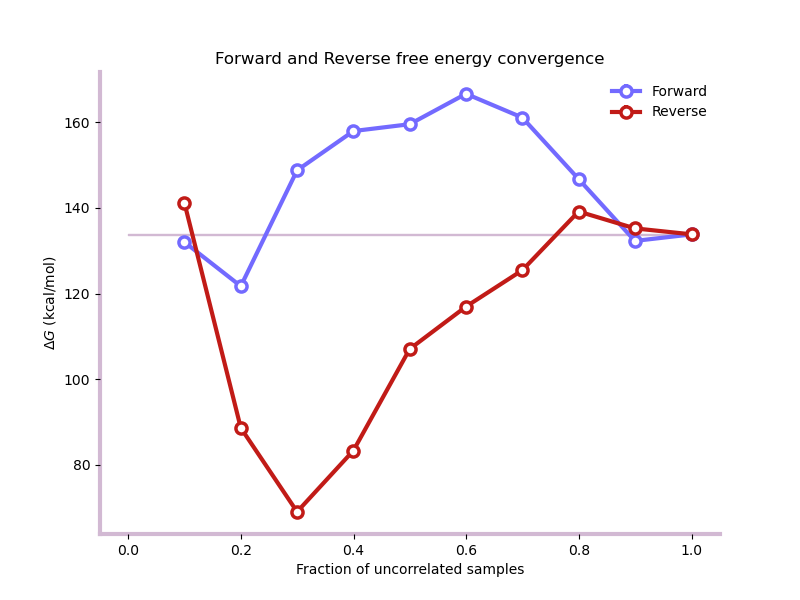
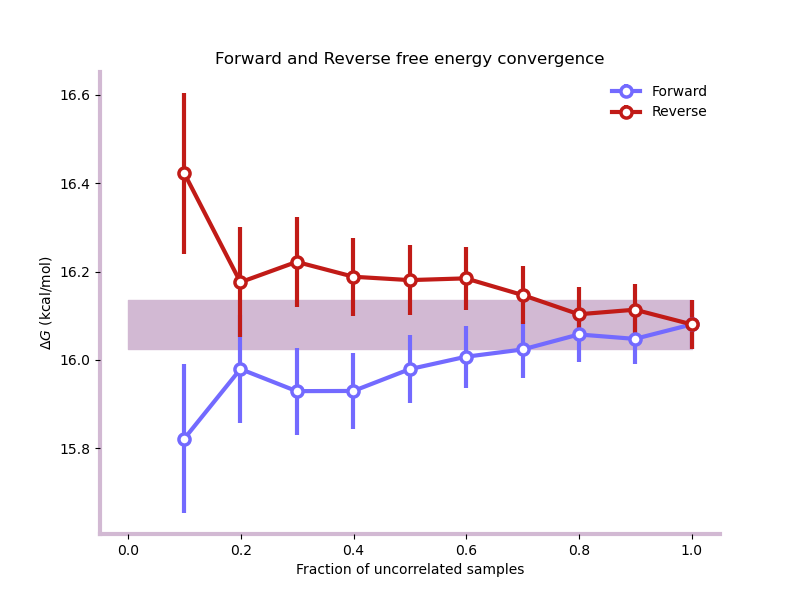
adress review comments

diff --git a/docs/guide/results/simulation_health.rst b/docs/guide/results/simulation_health.rst
@@ -3,21 +3,27 @@
 Assessing simulation health
 ===========================
 
-A plausible free energy estimate does not necessarily mean that a simulation
-has sampled adequately. Poor overlap between alchemical states, slow replica
-mixing, unconverged estimates or structural changes can all make a
-result unreliable, without raising an error.
+A free energy calculation can complete without errors even when the
+result is unreliable. Poor overlap between alchemical states, slow replica
+mixing, unconverged estimates or unexpected structural changes can
+compromise the result.
 
 **openfe** automatically performs energetic analysis of its multistate
 simulations and, where supported, structural analysis of the saved
 trajectories. This page explains how to interpret these diagnostics,
 identify sampling problems and decide what to check next.
 
-The guidance applies to :ref:`Relative Hybrid Topology
-<userguide_relative_hybrid_topology_protocol>`, :ref:`Separated Topologies
-<userguide_septop_protocol>`, :ref:`Absolute Binding <userguide_abfe_protocol>`
-and :doc:`Absolute Solvation </guide/protocols/absolutesolvation>`.
-Protocol-specific differences are noted below and on each protocol's page.
+For further discussion of best practices in free energy calculations
+and their analysis, see Klimovich et al. [1]_ and Mey et al. [2]_.
+
+The guidance applies to the following multistate protocols:
+
+* :ref:`Relative Hybrid Topology <userguide_relative_hybrid_topology_protocol>`
+* :ref:`Separated Topologies <userguide_septop_protocol>`
+* :ref:`Absolute Binding <userguide_abfe_protocol>`
+* :doc:`Absolute Solvation </guide/protocols/absolutesolvation>`
+
+Protocol-specific differences are noted where relevant.
 
 
 Where to find the analysis
@@ -105,8 +111,10 @@ Three uncertainties are reported, and they measure different things:
 * **Forward/reverse error bars**: analytical MBAR errors for subsets of the
   data (see :ref:`health_convergence`).
 
-A small MBAR uncertainty can coexist with large differences between repeats
-if they sample different conformations.
+.. important::
+
+   A small MBAR uncertainty can coexist with large differences
+   between repeats if they sample different conformations.
 
 The combined result can hide a single problematic repeat. For example,
 repeats of −8.1, −8.3 and −10.2 kcal/mol give −8.9 ± 1.2 kcal/mol, which
@@ -118,8 +126,8 @@ lies. Comparing the thermodynamic legs can help localise sampling
 problems. If complex-leg repeats disagree while solvent-leg
 repeats agree, focus the investigation on the complex system.
 
-Additional repeats help characterise this variability; longer or more effective sampling may be needed to resolve it.
-
+Additional repeats can help characterise this variability.
+Inspect the trajectories and consider longer simulations or more λ windows to achieve converged estimates.
 
 .. _multistate_analysis:
 
@@ -145,7 +153,10 @@ to the diagonal, which show the overlap between neighbouring states. As a
 rule of thumb, each should be at least 0.03 [1]_. In the plot, this appears
 as an unbroken band along the diagonal.
 
-If a neighbouring pair falls below this threshold, the estimate may be
+This guideline assumes sufficient sampling. Check that enough
+uncorrelated production samples are available for the estimator (``production_iterations()``).
+
+If a neighbouring pair falls below this 0.03 overlap threshold, the estimate may be
 unreliable even if its reported uncertainty is small.
 See :ref:`health_next_steps` for how to improve overlap.
 
@@ -169,17 +180,20 @@ travels across the full range of λ states.
 
 The **replica exchange matrix** shows the probability that a replica in
 state *i* moves to state *j*. As with the overlap matrix, check the elements
-next to the diagonal: a near-zero element splits the matrix into blocks that
-replicas cannot cross between.
+next to the diagonal: near-zero values indicate bottlenecks
+that limit replica movement between λ states.
 
 .. image:: ../protocols/img/replica_state_timeseries.png
    :alt: Example timeseries showing movement of replicas between alchemical states.
    :align: center
 
-The **replica state timeseries** shows which state each replica occupies
-over time. Each replica should move across the full range, ideally between
-both end states several times. Replicas confined to a subset of states
-indicate a barrier, often where the overlap matrix has a gap.
+The **replica state timeseries** shows which λ state each replica occupies
+over time. Good mixing is characterised by repeated
+replica round trips between the two end states. Replicas
+confined to a subset of states indicate poor mixing or bottlenecks.
+
+Round-trip counts and times can be calculated from the replica
+state histories returned by ``get_replica_states()``.
 
 
 .. _health_convergence:
@@ -187,23 +201,37 @@ indicate a barrier, often where the overlap matrix has a gap.
 Convergence and equilibration
 ~~~~~~~~~~~~~~~~~~~~~~~~~~~~~
 
-The **forward and reverse analysis** recalculates the free energy change from
-increasing fractions of the data, taken from the start and from the end of
-the simulation. Both curves should flatten and agree within error before
-all data are included [1]_. Continued drift indicates that more sampling is
-needed. The error bars are analytical MBAR errors.
+The **forward and reverse analysis** calculates free energy estimates
+from increasing fractions of the data, taken from the beginning
+(forward) and end (reverse) of the simulation. The shaded horizontal
+band shows the final estimate and its uncertainty.
 
-.. image:: ../protocols/img/forward_reverse_convergence.png
-   :alt: Example forward and reverse free energy estimates as fractions of data are included.
+Both estimates should stabilise near the final estimate and agree
+within their uncertainties [1]_. The **50% point** is particularly
+informative, as it compares estimates from the first and second halves
+of the data. Large differences indicate that the free energy estimate
+may not have converged. At 100%, both estimates necessarily agree
+because they use the same data.
+
+.. figure:: ../protocols/img/forward_reverse_convergence.png
    :align: center
+
+   **Better convergence:** The estimates approach the final value relatively quickly and show smaller fluctuations.
+
+.. figure:: ../protocols/img/forward_reverse_convergence_bad.png
+   :align: center
+
+   **Poor convergence:** Forward and reverse estimates remain substantially
+   separated, and the reverse estimate changes sharply between 80% and
+   100% of the data. The estimates only agree when the full dataset is included.
 
 The analysis also identifies an initial equilibration period
 (``equilibration_iterations``) and estimates the number of
 effectively uncorrelated production samples
 (``production_iterations``). If many iterations are discarded
-or few uncorrelated samples remain, inspect the trajectory
-for slow equilibration or insufficient sampling.
-
+or few uncorrelated samples remain, or these values differ
+substantially between repeats, inspect the trajectories for
+potential sampling problems.
 
 .. _health_structure:
 
@@ -316,12 +344,17 @@ restraint geometry stays well defined during the simulation (see
 .. rubric:: Further trajectory analysis
 
 Inspect trajectories for changes in binding modes, ring flips, pocket waters,
-important interactions or unexpected protein rearrangements. The multistate ``simulation.nc`` trajectory and its
-topology (set by ``output_settings.output_structure``, e.g. ``hybrid_system.pdb`` for Relative Hybrid Topology)
-can be analysed using `openfe_analysis`_. See the `structural analysis tutorial
+important interactions or unexpected protein rearrangements.
+The multistate trajectory (``simulation.nc``) and its topology
+(set by ``output_settings.output_structure``, e.g. ``hybrid_system.pdb`` for Relative Hybrid Topology)
+can be inspected using `openfe_analysis`_.
+See the `structural analysis tutorial
 <https://openfe-analysis.openfree.energy/en/latest/tutorials/structural_analysis.html>`_
-and, for Separated Topologies and Absolute Binding, the `Boresch restraint analysis tutorial
-<https://openfe-analysis.openfree.energy/en/latest/tutorials/boresch_analysis.html>`_.
+for analysing trajectories and the visualisation notebook for inspecting molecular structures and motions.
+
+For Separated Topologies and Absolute Binding, see also the `Boresch restraint analysis tutorial
+<https://openfe-analysis.openfree.energy/en/latest/tutorials/boresch_analysis.html>`_
+for checking restraint geometry.
 
 
 .. _health_next_steps:
@@ -341,7 +374,10 @@ structural diagnostics together before changing settings.
      - What to try
    * - MBAR overlap matrix: elements next to the diagonal below 0.03
      - Large changes between neighbouring λ states
-     - Increase the number of λ windows or adjust the λ schedule to improve overlap.
+     - Increase the number of λ windows or adjust the λ schedule.
+       For Relative Hybrid Topology, also inspect the atom mapping
+       and consider splitting challenging transformations into
+       smaller steps using intermediate ligands.
    * - Replica state timeseries: replicas stay within a subset of λ states,
        or the replica exchange matrix shows isolated blocks
      - A gap in overlap, or a slow conformational change
@@ -418,5 +454,10 @@ References
    *Journal of Computer-Aided Molecular Design*, 29, 397--411.
    doi: `10.1007/s10822-015-9840-9
    <https://doi.org/10.1007/s10822-015-9840-9>`_.
+.. [2] Mey, A. S. J. S. et al. (2020).
+   Best Practices for Alchemical Free Energy Calculations.
+   *Living Journal of Computational Molecular Science*, 2(1), 18378.
+   doi: `10.33011/livecoms.2.1.18378
+   <https://doi.org/10.33011/livecoms.2.1.18378>`_.
 
 .. _openfe_analysis: https://openfe-analysis.openfree.energy/en/latest/

diff --git a/docs/guide/protocols/relativehybridtopology.rst b/docs/guide/protocols/relativehybridtopology.rst
@@ -190,8 +190,17 @@ protocols, the protein selection and frame stride cannot currently be
 configured. The ``structural_analysis.npz`` file also contains a 1D protein
 Cα RMSD (``protein_RMSD``), which is not plotted.
 
+.. caution::
+
+Ligand RMSD is calculated for the hybrid ligand, including dummy
+atoms. Movement of these atoms can inflate RMSD values even when
+the interacting part of the ligand remains in its binding pose.
+Inspect the trajectory before interpreting a high RMSD as
+evidence of ligand displacement.
+
 The multistate trajectory (``simulation.nc``) and the hybrid topology
 (``hybrid_system.pdb``) can be analysed further using `openfe_analysis`_.
+.. TODO: Link to the trajectory visualisation cookbook when published.
 
 
 See Also

diff --git a/docs/guide/protocols/absolutebinding.rst b/docs/guide/protocols/absolutebinding.rst
@@ -131,6 +131,7 @@ the `Boresch restraint analysis tutorial
 <https://openfe-analysis.openfree.energy/en/latest/tutorials/boresch_analysis.html>`_.
 The multistate trajectory (``simulation.nc``) and its topology
 (``alchemical_system.pdb``) can be analysed further using `openfe_analysis`_.
+.. TODO: Link to the trajectory visualisation cookbook when published.
 
 See Also
 --------

diff --git a/docs/guide/protocols/septop.rst b/docs/guide/protocols/septop.rst
@@ -143,6 +143,7 @@ the `Boresch restraint analysis tutorial
 <https://openfe-analysis.openfree.energy/en/latest/tutorials/boresch_analysis.html>`_.
 The multistate trajectory (``simulation.nc``) and its topology
 (``alchemical_system.pdb``) can be analysed further using `openfe_analysis`_.
+.. TODO: Link to the trajectory visualisation cookbook when published.
 
 See Also
 --------

diff --git a/docs/guide/protocols/absolutesolvation.rst b/docs/guide/protocols/absolutesolvation.rst
@@ -114,6 +114,7 @@ output, through ``output_indices`` in ``solvent_output_settings``; otherwise
 the structural analysis is skipped. The multistate trajectories
 (``solvent.nc`` and ``vacuum.nc``) can be analysed further using
 `openfe_analysis`_.
+.. TODO: Link to the trajectory visualisation cookbook when published.
 
 
 See Also
